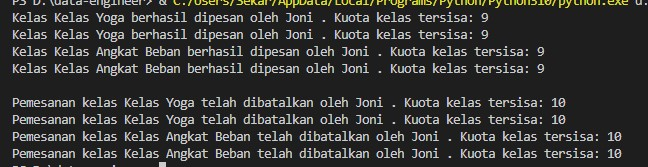
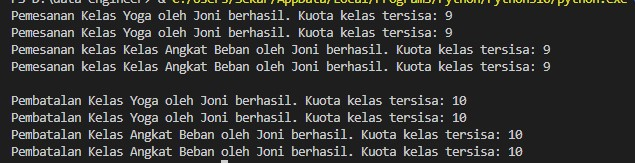
fixed

diff --git a/06_Object-Oriented-Programming/praktikum/eksplorasi.py b/06_Object-Oriented-Programming/praktikum/eksplorasi.py
@@ -91,7 +91,7 @@ class KelasLatihan(Pelatih):
     def batalkanKelas(self):
         if self.__terpesan > 0:
             self.__terpesan -= 1
-            print("Pemesanan kelas " + self.__jenis_latihan + " telah dibatalkan oleh " + daftar_pelanggan[self.__terpesan].get_nama() + " . Kuota kelas tersisa: " + str(10 + self.__terpesan))
+            print("Kelas " + self.__jenis_latihan + " telah dibatalkan oleh " + daftar_pelanggan[self.__terpesan].get_nama() + " . Kuota kelas tersisa: " + str(10 + self.__terpesan))
         else:
             print("Pesanan kelas " + self.__jenis_latihan + "tidak ada")
 
@@ -107,6 +107,20 @@ class Yoga(KelasLatihan):
         super().tampilkanInfo()
         print("Tingkat kesulitan:", self.__tingkat_kesulitan)
 
+    def pesanKelas(self):
+        if self._KelasLatihan__terpesan < 10:
+            self._KelasLatihan__terpesan += 1
+            print("Pemesanan " + self.get_jenis_latihan() + " oleh " + daftar_pelanggan[self._KelasLatihan__terpesan-1].get_nama() + " berhasil. Kuota kelas tersisa: " + str(10 - self._KelasLatihan__terpesan))
+        else:
+            print("Kelas " + self.get_jenis_latihan() + " sudah penuh")
+
+    def batalkanKelas(self):
+        if self._KelasLatihan__terpesan > 0:
+            self._KelasLatihan__terpesan -= 1
+            print("Pembatalan " + self.get_jenis_latihan() + " oleh " + daftar_pelanggan[self._KelasLatihan__terpesan].get_nama() + " berhasil. Kuota kelas tersisa: " + str(10 + self._KelasLatihan__terpesan))
+        else:
+            print("Pesanan " + self.get_jenis_latihan() + " tidak ada")
+
 class AngkatBeban(KelasLatihan):
     def __init__(self, nama, spesialisasi, tahun_pengalaman, jenis_latihan, jadwal, berat_maksimum):
         super().__init__(nama, spesialisasi, tahun_pengalaman, jenis_latihan, jadwal)
@@ -119,6 +133,19 @@ class AngkatBeban(KelasLatihan):
         super().tampilkanInfo()
         print("Berat maksimum:", self.__berat_maksimum)
 
+    def pesanKelas(self):
+        if self._KelasLatihan__terpesan < 10:
+            self._KelasLatihan__terpesan += 1
+            print("Pemesanan kelas " + self.get_jenis_latihan() + " oleh " + daftar_pelanggan[self._KelasLatihan__terpesan-1].get_nama() + " berhasil. Kuota kelas tersisa: " + str(10 - self._KelasLatihan__terpesan))
+        else:
+            print("Kelas " + self.get_jenis_latihan() + " sudah penuh")
+
+    def batalkanKelas(self):
+        if self._KelasLatihan__terpesan > 0:
+            self._KelasLatihan__terpesan -= 1
+            print("Pembatalan " + self.get_jenis_latihan() + " oleh " + daftar_pelanggan[self._KelasLatihan__terpesan].get_nama() + " berhasil. Kuota kelas tersisa: " + str(10 + self._KelasLatihan__terpesan))
+        else:
+            print("Pesanan kelas " + self.get_jenis_latihan() + " tidak ada")
 
 daftar_pelanggan = [
 Pelanggan("Joni", 46, "C123"),
